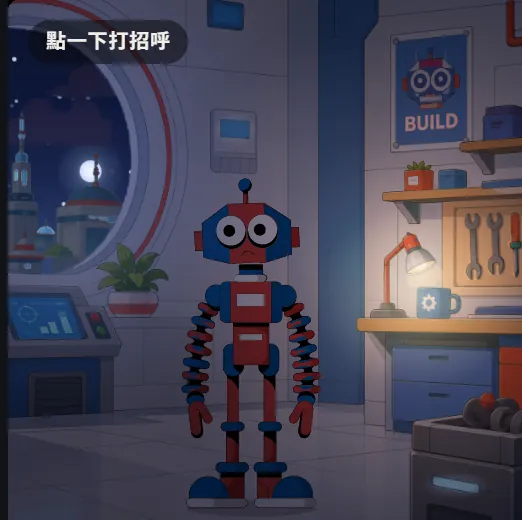
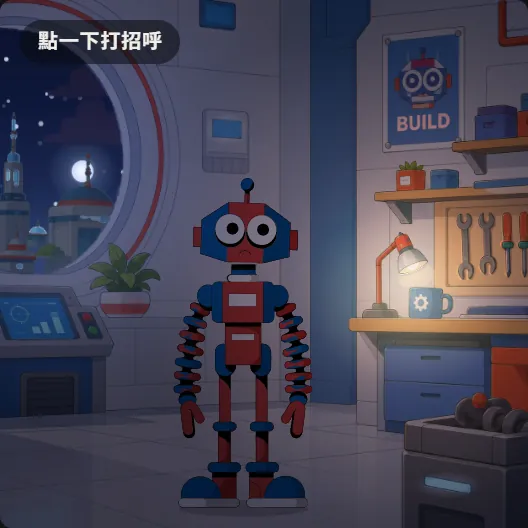
建站記錄長文修正:作者設定改對、截圖重拍、中英分開用圖
一、設定改對(最重要)

原稿寫「我不會寫程式」,但作者會寫,只是十年沒動過;也做動畫;缺的是
製作素材的能力。這篇整篇的可信度建立在「每句話都可以自己驗證」上,
開頭第一句不準,後面全部會被質疑。標題與開場全部改寫:

- 標題:「我不會寫程式」→「十年沒寫程式」
- 開場補三段:會寫但十年沒動、會做動畫看得出精不精緻、缺的是製作素材
- 補一段停手十年最直接的後果——技術架構停在十年前,而它主動給前端建議
  (有更省的做法、這結構在手機會壞、這可以用瀏覽器原生的),
  不必先補完十年技術債就能直接想畫面
- 結尾「給正在猶豫的人」跟著改:十年沒寫幾乎沒成為障礙,
  真正有用的是「知道畫面還差一點」與「講得出差在哪裡」
- 數字表:「我的程式背景:沒有」→「會寫程式但十年沒動過;會做動畫;不會製作素材」

二、截圖重拍

原本那批有黑邊(固定 NAV、瀏覽器捲軸、LINE 浮動列入鏡)、六隻怪獸被切掉
(裁切框沒含到吊在格線上方的角色)、Allen 那張左緣有一條卡片底色。

重拍:滿版圖在轉檔時裁掉上下固定元素;怪獸改用 1440x1300 的視窗,
上緣多留 140px 把吊著的角色整隻收進來;Allen 改抓完整卡片,左緣黑邊消失。

三、中英各用自己的截圖

英文文章原本掛中文介面的截圖。改成兩套:zh 拍根目錄頁面,en 拍 /en/ 與
peakqi-story-en.html,英文版全部指向 -en 檔。

build-blog.mjs 原本只讀中文版的 cover,英文頁的 og:image 與封面圖都會是
中文截圖 —— 加上分語言封面支援(英文版沒寫 cover 就沿用中文版那張,
多數文章封面是插畫不必分),文章頁與列表頁縮圖都跟著走。

四、新增手機選單彩蛋一節 + 配圖(中英各一張)

驗收:中英文章頁 × 桌機/手機 overflowX 0、H1 各 1、11 個 H2、4 個 H3、
7 張圖 3 個表格、資源 404 為 0、JS 錯誤 0;兩個列表頁正常。
assets/blog 共 592 KB(14 張 WebP)。

diff --git a/en/blog/built-a-website-with-claude-code.dc.html b/en/blog/built-a-website-with-claude-code.dc.html
@@ -9,23 +9,23 @@
 <meta property="og:type" content="article">
 <meta property="og:site_name" content="PeakQi">
 <meta property="og:locale" content="en_US">
-<meta property="og:title" content="I can&#39;t code. I built a website with Claude Code. | PeakQi">
-<meta property="og:description" content="414 commits across 16 working days, July 16 to August 8, 2026. One person, a 32-page bilingual company site, built from nothing. This is the working record — including the day I got stuck, what I threw away, and one solution I didn&#39;t see coming.">
+<meta property="og:title" content="I hadn&#39;t written code in ten years. I built a website with Claude Code. | PeakQi">
+<meta property="og:description" content="I can write code, but I hadn&#39;t in ten years. I work in animation, but I can&#39;t produce assets. 414 commits across 16 working days, one person, a 32-page bilingual company site. This is the working record — including the day I got stuck, what I threw away, and one solution I didn&#39;t see coming.">
 <meta property="og:url" content="https://www.peakqi.com/en/blog/built-a-website-with-claude-code">
 <link rel="canonical" href="https://www.peakqi.com/en/blog/built-a-website-with-claude-code">
 <link rel="alternate" hreflang="zh-Hant" href="https://www.peakqi.com/blog/built-a-website-with-claude-code">
 <link rel="alternate" hreflang="en" href="https://www.peakqi.com/en/blog/built-a-website-with-claude-code">
 <link rel="alternate" hreflang="x-default" href="https://www.peakqi.com/blog/built-a-website-with-claude-code">
-<meta property="og:image" content="https://www.peakqi.com/assets/blog/tower.webp">
+<meta property="og:image" content="https://www.peakqi.com/assets/blog/tower-en.webp">
 <meta property="og:image:width" content="1200">
 <meta property="og:image:height" content="630">
 <meta property="og:image:alt" content="PeakQi">
 <meta name="twitter:card" content="summary_large_image">
-<meta name="twitter:title" content="I can&#39;t code. I built a website with Claude Code. | PeakQi">
-<meta name="twitter:description" content="414 commits across 16 working days, July 16 to August 8, 2026. One person, a 32-page bilingual company site, built from nothing. This is the working record — including the day I got stuck, what I threw away, and one solution I didn&#39;t see coming.">
-<meta name="twitter:image" content="https://www.peakqi.com/assets/blog/tower.webp">
+<meta name="twitter:title" content="I hadn&#39;t written code in ten years. I built a website with Claude Code. | PeakQi">
+<meta name="twitter:description" content="I can write code, but I hadn&#39;t in ten years. I work in animation, but I can&#39;t produce assets. 414 commits across 16 working days, one person, a 32-page bilingual company site. This is the working record — including the day I got stuck, what I threw away, and one solution I didn&#39;t see coming.">
+<meta name="twitter:image" content="https://www.peakqi.com/assets/blog/tower-en.webp">
 <link rel="alternate" type="application/rss+xml" title="Insights" href="/en/feed.xml">
-<script type="application/ld+json">{"@context":"https://schema.org","@type":"BlogPosting","headline":"I can't code. I built a website with Claude Code.","description":"414 commits across 16 working days, July 16 to August 8, 2026. One person, a 32-page bilingual company site, built from nothing. This is the working record — including the day I got stuck, what I threw away, and one solution I didn't see coming.","inLanguage":"en","datePublished":"2026-08-08","dateModified":"2026-08-08","image":"https://www.peakqi.com/assets/blog/tower.webp","mainEntityOfPage":{"@type":"WebPage","@id":"https://www.peakqi.com/en/blog/built-a-website-with-claude-code"},"author":{"@type":"Organization","name":"PeakQi","url":"https://www.peakqi.com/en/"},"publisher":{"@type":"Organization","name":"PeakQi","logo":{"@type":"ImageObject","url":"https://www.peakqi.com/assets/logo.png"}}}</script>
+<script type="application/ld+json">{"@context":"https://schema.org","@type":"BlogPosting","headline":"I hadn't written code in ten years. I built a website with Claude Code.","description":"I can write code, but I hadn't in ten years. I work in animation, but I can't produce assets. 414 commits across 16 working days, one person, a 32-page bilingual company site. This is the working record — including the day I got stuck, what I threw away, and one solution I didn't see coming.","inLanguage":"en","datePublished":"2026-08-08","dateModified":"2026-08-08","image":"https://www.peakqi.com/assets/blog/tower-en.webp","mainEntityOfPage":{"@type":"WebPage","@id":"https://www.peakqi.com/en/blog/built-a-website-with-claude-code"},"author":{"@type":"Organization","name":"PeakQi","url":"https://www.peakqi.com/en/"},"publisher":{"@type":"Organization","name":"PeakQi","logo":{"@type":"ImageObject","url":"https://www.peakqi.com/assets/logo.png"}}}</script>
 <script>window.__dcComponentDir='/';</script>
 <script src="/support.js"></script>
 <script>try{if('scrollRestoration' in history)history.scrollRestoration='manual';}catch(e){}
@@ -35,8 +35,8 @@ window.addEventListener('load',function(){if(!location.hash)requestAnimationFram
 <body>
 <x-dc>
 <helmet>
-<title>I can&#39;t code. I built a website with Claude Code. | PeakQi</title>
-<meta name="description" content="414 commits across 16 working days, July 16 to August 8, 2026. One person, a 32-page bilingual company site, built from nothing. This is the working record — including the day I got stuck, what I threw away, and one solution I didn&#39;t see coming.">
+<title>I hadn&#39;t written code in ten years. I built a website with Claude Code. | PeakQi</title>
+<meta name="description" content="I can write code, but I hadn&#39;t in ten years. I work in animation, but I can&#39;t produce assets. 414 commits across 16 working days, one person, a 32-page bilingual company site. This is the working record — including the day I got stuck, what I threw away, and one solution I didn&#39;t see coming.">
 <meta name="viewport" content="width=device-width, initial-scale=1">
 <link rel="preconnect" href="https://fonts.googleapis.com">
 <link rel="preconnect" href="https://fonts.gstatic.com" crossorigin>
@@ -106,15 +106,20 @@ html[lang="en"] p,html[lang="en"] li{hyphens:auto;-webkit-hyphens:auto;text-wrap
 <a id="pq-skip" href="#pq-main">Skip to main content</a>
 <dc-import name="Nav" active="blog" cta-threshold="0.4" hint-size="100%,68px"></dc-import>
 
-<main id="pq-main" class="pb-wrap" data-screen-label="I can&#39;t code. I buil">
+<main id="pq-main" class="pb-wrap" data-screen-label="I hadn&#39;t written cod">
   <a class="pb-back" href="/en/blog">← Back to Insights</a>
   <span class="pb-kicker">Build notes</span>
-  <h1 class="pb-title">I can&#39;t code. I built a website with Claude Code.</h1>
-  <p class="pb-lede">414 commits across 16 working days, July 16 to August 8, 2026. One person, a 32-page bilingual company site, built from nothing. This is the working record — including the day I got stuck, what I threw away, and one solution I didn&#39;t see coming.</p>
-  <p class="pb-meta">Aug 8, 2026 · 9 min read</p>
-  <figure class="pb-cover"><img src="/assets/blog/tower.webp" alt="品牌屋 3D 塔樓——六個房間對應六門生意,隨頁面捲動一層一層走上去" width="1200" height="630" fetchpriority="high" decoding="async"></figure>
+  <h1 class="pb-title">I hadn&#39;t written code in ten years. I built a website with Claude Code.</h1>
+  <p class="pb-lede">I can write code, but I hadn&#39;t in ten years. I work in animation, but I can&#39;t produce assets. 414 commits across 16 working days, one person, a 32-page bilingual company site. This is the working record — including the day I got stuck, what I threw away, and one solution I didn&#39;t see coming.</p>
+  <p class="pb-meta">Aug 8, 2026 · 11 min read</p>
+  <figure class="pb-cover"><img src="/assets/blog/tower-en.webp" alt="The Brand House 3D tower — six rooms for six businesses, walked through floor by floor as you scroll" width="1200" height="630" fetchpriority="high" decoding="async"></figure>
   <article class="pb-body">
-<p>I&#39;m Allen, part of the team at PEAKQI Co., Ltd. in Taiwan. Before this project, I couldn&#39;t write code.</p>
+<p>I&#39;m Allen, part of the team at PEAKQI Co., Ltd. in Taiwan.</p>
+<p>Let me be precise about where I was standing, because nothing after this means much otherwise: <strong>I can write code, but I hadn&#39;t touched it in about ten years.</strong> I also work in animation — I can tell when a frame is refined and when the timing is off.</p>
+<p>What I don&#39;t have is the other half: <strong>producing assets.</strong> Turning what&#39;s in my head into usable layers, models, textures, storyboards — I can&#39;t do that. And in ten years the stack turned over several times. I knew what needed doing; I didn&#39;t know how it&#39;s done now.</p>
+<p>So the division of labour on this project was clear: use Claude Code to structure the development, sit on it while it debugged, and push the visuals round after round until they were refined enough. Judgment stayed with me. Production went to it.</p>
+<p>The most direct consequence of ten years away is that my mental model of the stack is ten years old. That&#39;s the gap it filled best — not just doing what I asked, but volunteering frontend advice: there&#39;s a cheaper way to do that effect now, this structure will break on mobile, this can be done natively in the browser instead. I never had to pay down ten years of technical debt first. I could go straight to &quot;here&#39;s the frame I want&quot; and start trying things.</p>
+<p>It delivered.</p>
 <p>Between July 16 and August 8, 2026, I built our company site <a href="https://peakqi.com" target="_blank" rel="noopener noreferrer">peakqi.com</a> from scratch using <a href="https://claude.com/claude-code" target="_blank" rel="noopener noreferrer">Claude Code</a> — 32 pages across two languages, a three.js scroll-driven sequence, a WebGL enhancement layer that can be switched off entirely, and two asset generation pipelines I wrote along the way.</p>
 <p>All of it is public on <a href="https://github.com/Peakqi-com/peakqi-website" target="_blank" rel="noopener noreferrer">GitHub</a>. The commit history has not been cleaned up.</p>
 <p>This isn&#39;t a success story. It&#39;s a working record.</p>
@@ -122,7 +127,7 @@ html[lang="en"] p,html[lang="en"] li{hyphens:auto;-webkit-hyphens:auto;text-wrap
 <h2>What the site actually is</h2>
 <p>Not a template. The specs:</p>
 <div class="pb-tablewrap"><table class="pb-table"><thead><tr><th>Item</th><th>Detail</th></tr></thead><tbody><tr><td>Architecture</td><td>Vanilla JavaScript, no frontend framework. All copy, pricing and case data live in a single <code>content.js</code></td></tr><tr><td>Homepage</td><td>three.js loads a 42-mesh camera GLB that assembles, disassembles, walks through each component, unfolds into a blueprint, reassembles and flips — six scroll-driven stages</td></tr><tr><td>Render layers</td><td><code>hero-engine.js</code> (Canvas 2D sequence), <code>gl-engine.js</code> (WebGL enhancement, fully disableable), <code>micro-engine.js</code> (micro-interactions)</td></tr><tr><td>Degradation</td><td>reduced-motion, save-data, deviceMemory &lt; 4, width &lt; 900, context lost, shader failure — any one triggers automatic fallback with the narrative fully intact</td></tr><tr><td>Asset generators</td><td><code>tools/gen-allen-art.mjs</code> (194 SVG paths sorted into nine rigid bodies) and <code>tools/gen-allen-room-assets.py</code> (40-layer decomposition with a built-in self-check)</td></tr><tr><td>Deployment</td><td>Vercel + GitHub Actions; form submissions route through a serverless function to Google Sheets / Email / Notion</td></tr><tr><td>Languages</td><td>Traditional Chinese and English, 16 pages each</td></tr></tbody></table></div>
-<figure class="pb-fig"><img src="/assets/blog/camera.webp" alt="Homepage sequence, stage 02 &quot;disassemble&quot;: the camera body and its caption card on screen together, stage index on the right" loading="lazy" decoding="async"><figcaption>Homepage sequence, stage 02 &quot;disassemble&quot;: the camera body and its caption card on screen together, stage index on the right</figcaption></figure>
+<figure class="pb-fig"><img src="/assets/blog/camera-en.webp" alt="Homepage sequence, stage 02 &quot;disassemble&quot;: the camera body and its caption card on screen together, stage index on the right" loading="lazy" decoding="async"><figcaption>Homepage sequence, stage 02 &quot;disassemble&quot;: the camera body and its caption card on screen together, stage index on the right</figcaption></figure>
 <p>If you&#39;d rather just look at the result, the <a href="/en/">homepage</a>, <a href="/en/cases">case studies</a> and <a href="/en/pricing">pricing</a> show the differences most clearly.</p>
 <hr class="pb-hr">
 <h2>The 16 days</h2>
@@ -139,7 +144,7 @@ html[lang="en"] p,html[lang="en"] li{hyphens:auto;-webkit-hyphens:auto;text-wrap
 <p>Four blue handles appeared on screen. I dragged them; it reprojected onto the 3D mesh in real time and rebuilt the clip path, while a panel in the corner displayed a coordinate array I could paste straight back into the source. I dragged, copied, pasted.</p>
 <p>The next commit reads:</p>
 <blockquote class="pb-quote">Video corners now use the exact values the user positioned with <code>__cornerTool</code> — precise fit to the screen</blockquote>
-<figure class="pb-fig"><img src="/assets/blog/blueprint.webp" alt="Homepage sequence, stage 03 &quot;glowing linework&quot;: the camera separated into components, rendered as wireframe" loading="lazy" decoding="async"><figcaption>Homepage sequence, stage 03 &quot;glowing linework&quot;: the camera separated into components, rendered as wireframe</figcaption></figure>
+<figure class="pb-fig"><img src="/assets/blog/blueprint-en.webp" alt="Homepage sequence, stage 03 &quot;glowing linework&quot;: the camera separated into components, rendered as wireframe" loading="lazy" decoding="async"><figcaption>Homepage sequence, stage 03 &quot;glowing linework&quot;: the camera separated into components, rendered as wireframe</figcaption></figure>
 <p>The thing I couldn&#39;t compute all day was solved by not computing it — by building an interface and handing the judgment back to the person who could see the screen.</p>
 <p>I had assumed the value of AI writing code was that it calculates better than I do. That day I learned otherwise. The value was that it knew when to stop calculating, hand the decision back to me, and build the handoff tool on its way out.</p>
 <hr class="pb-hr">
@@ -148,7 +153,7 @@ html[lang="en"] p,html[lang="en"] li{hyphens:auto;-webkit-hyphens:auto;text-wrap
 <p>The commit:</p>
 <blockquote class="pb-quote">Restore six capabilities section: remove failed automated editorial design experiment (583c6f7)</blockquote>
 <p>After the rollback I did it by hand instead: a Swiss editorial grid first, then six characters breaking out of it one at a time — 01 sits on a grid line and bends the hairline under its weight, 02 does pull-ups on the top rule, 03 lies flat across it, 04 swings one-handed, 05 walks a tightrope, 06 hangs upside down beneath the line. Six separate commits, one character at a time.</p>
-<figure class="pb-fig"><img src="/assets/blog/creatures.webp" alt="Six component creatures, each breaking the grid in a different posture; the 2px black line under their feet is the Swiss editorial grid" loading="lazy" decoding="async"><figcaption>Six component creatures, each breaking the grid in a different posture; the 2px black line under their feet is the Swiss editorial grid</figcaption></figure>
+<figure class="pb-fig"><img src="/assets/blog/creatures-en.webp" alt="Six component creatures, each breaking the grid in a different posture; the 2px black line under their feet is the Swiss editorial grid" loading="lazy" decoding="async"><figcaption>Six component creatures, each breaking the grid in a different posture; the 2px black line under their feet is the Swiss editorial grid</figcaption></figure>
 <p>It took longer than the automated pass. It came out far better. The division of labour I took from this: <strong>structure can be delegated. Taste cannot.</strong></p>
 <hr class="pb-hr">
 <h2>Honesty turned out to be an engineering problem</h2>
@@ -176,11 +181,13 @@ html[lang="en"] p,html[lang="en"] li{hyphens:auto;-webkit-hyphens:auto;text-wrap
 <h2>One indulgence</h2>
 <p>There&#39;s a robot on the <a href="/en/about">about page</a>, standing in his own workshop. His name is Allen.</p>
 <p>The workshop is built from 40 hand-separated layers. It shifts between day, dusk and night based on the visitor&#39;s local clock. Clouds drift past the window; at night there are stars and a moon that rises slowly. The clouds occlude the stars, a cloud glows faintly when the moon rises behind it, and moonlight falls on the buildings outside. Six things are clickable — the window, the desk lamp switch, the mug, the poster, the console, the tool rail — and he turns his head to look at whichever one you touch.</p>
-<figure class="pb-fig"><img src="/assets/blog/allen-day.webp" alt="Allen&#39;s workshop in daylight" loading="lazy" decoding="async"><figcaption>Allen&#39;s workshop in daylight</figcaption></figure>
-<figure class="pb-fig"><img src="/assets/blog/allen-night.webp" alt="The same workshop at night: stars, the moon, and moonlight spilling in through the window" loading="lazy" decoding="async"><figcaption>The same workshop at night: stars, the moon, and moonlight spilling in through the window</figcaption></figure>
+<figure class="pb-fig"><img src="/assets/blog/allen-day-en.webp" alt="Allen&#39;s workshop in daylight" loading="lazy" decoding="async"><figcaption>Allen&#39;s workshop in daylight</figcaption></figure>
+<figure class="pb-fig"><img src="/assets/blog/allen-night-en.webp" alt="The same workshop at night: stars, the moon, and moonlight spilling in through the window" loading="lazy" decoding="async"><figcaption>The same workshop at night: stars, the moon, and moonlight spilling in through the window</figcaption></figure>
 <p>Technically it&#39;s the hardest thing on the site. The time-of-day system isn&#39;t three prepared background images; it&#39;s two grading layers — multiply for darkening, screen for lifting — derived analytically in sRGB space (measured average deviation: 0.3 levels).</p>
 <p>The asset generator validates itself by recomposing base plate plus components and comparing against the original, pixel by pixel. One detail is worth stating precisely: <strong>the gate is not RMSE.</strong> Rasterising at a larger size and scaling back shifts every outline by about a pixel — a difference RMSE sees and the eye does not. What actually needs catching is &quot;a whole block went missing&quot;, so the gate is: zero connected regions where the difference exceeds 60. Current RMSE is 3.74, with zero failing regions.</p>
 <p>There was no business reason to build any of it. I just wanted to put a version of myself inside the site I&#39;d built.</p>
+<p>The same instinct produced a smaller one: open the menu on a phone and one of the six component creatures is in there, hanging off the language toggle or dropping between the links. It&#39;s a different creature and a different bit each time — fifteen of them, drawn one at a time. Nobody needs this. It&#39;s the part of the site I&#39;d miss most if it were gone.</p>
+<figure class="pb-fig"><img src="/assets/blog/menu-en.webp" alt="The mobile menu: one of the six creatures hanging off the language toggle, another dropping in between the links" loading="lazy" decoding="async"><figcaption>The mobile menu: one of the six creatures hanging off the language toggle, another dropping in between the links</figcaption></figure>
 <hr class="pb-hr">
 <h2>August 6: the entire English site in one day</h2>
 <p>45 commits, 16 English pages shipped.</p>
@@ -188,11 +195,12 @@ html[lang="en"] p,html[lang="en"] li{hyphens:auto;-webkit-hyphens:auto;text-wrap
 <p>That&#39;s the day of this project I still find hardest to believe.</p>
 <hr class="pb-hr">
 <h2>Numbers</h2>
-<div class="pb-tablewrap"><table class="pb-table"><thead><tr><th>Item</th><th>Value</th></tr></thead><tbody><tr><td>Total commits</td><td>414 (as of 2026-08-08)</td></tr><tr><td>Working days</td><td>16, spanning 24 calendar days</td></tr><tr><td>Developers</td><td>1 (company team of 3)</td></tr><tr><td>Most days</td><td>3–4 hours</td></tr><tr><td>Pages</td><td>16 per language, 32 total</td></tr><tr><td>Tooling</td><td>Claude Code on a Claude Max subscription</td></tr><tr><td>Other AI tools used</td><td>None, at any stage</td></tr><tr><td>My programming background</td><td>None</td></tr></tbody></table></div>
+<div class="pb-tablewrap"><table class="pb-table"><thead><tr><th>Item</th><th>Value</th></tr></thead><tbody><tr><td>Total commits</td><td>414 (as of 2026-08-08)</td></tr><tr><td>Working days</td><td>16, spanning 24 calendar days</td></tr><tr><td>Developers</td><td>1 (company team of 3)</td></tr><tr><td>Most days</td><td>3–4 hours</td></tr><tr><td>Pages</td><td>16 per language, 32 total</td></tr><tr><td>Tooling</td><td>Claude Code on a Claude Max subscription</td></tr><tr><td>Other AI tools used</td><td>None, at any stage</td></tr><tr><td>My background</td><td>Can write code, ten years out of practice; work in animation; can&#39;t produce assets</td></tr></tbody></table></div>
 <hr class="pb-hr">
 <h2>If you&#39;re on the fence</h2>
-<p>If you&#39;re where I was a year ago — able to judge whether something is good, unable to build it — my experience is that the &quot;unable to build it&quot; half is now something you can delegate.</p>
-<p>Don&#39;t delegate the judgment. The automated redesign on July 22 failed precisely because I handed over taste along with structure. Everything in this project that came out well came from knowing what I wanted and spending the time to say it clearly.</p>
+<p>If you&#39;re where I was — able to judge whether something is good, unable to make it with your own hands — my experience is that the &quot;unable to make it&quot; half is now something you can delegate.</p>
+<p>Ten years away from code turned out to be almost irrelevant here. What mattered were two other things: knowing when a frame is still slightly off, and being able to say exactly how. Nobody could do those for me.</p>
+<p>So don&#39;t delegate the judgment. The automated redesign on July 22 failed precisely because I handed over taste along with structure. Everything in this project that came out well came from knowing what I wanted and spending the time to say it clearly.</p>
 <p>All source is public at <a href="https://github.com/Peakqi-com/peakqi-website" target="_blank" rel="noopener noreferrer">github.com/Peakqi-com/peakqi-website</a>. The commit history is unedited. Every claim above can be checked against it.</p>
 <p>If you want to talk about wiring AI into your own workflow, <a href="/en/demo">book a 15-minute assessment</a>.</p>
   </article>

diff --git a/blog/built-a-website-with-claude-code.dc.html b/blog/built-a-website-with-claude-code.dc.html
@@ -9,8 +9,8 @@
 <meta property="og:type" content="article">
 <meta property="og:site_name" content="奇鋒國際 PeakQi">
 <meta property="og:locale" content="zh_TW">
-<meta property="og:title" content="我不會寫程式,我用 Claude Code 蓋了一個網站｜奇鋒國際 PeakQi">
-<meta property="og:description" content="2026 年 7 月 16 日到 8 月 8 日,16 個工作天、414 個提交,一個人從零做出中英雙語 32 頁的公司官網。這是完整的工作記錄——包含卡住的那一天、丟掉的東西,以及一個我沒想到的解法。">
+<meta property="og:title" content="十年沒寫程式,我用 Claude Code 蓋了一個網站｜奇鋒國際 PeakQi">
+<meta property="og:description" content="我會寫程式,但十年沒動過;我做動畫,但不會製作素材。16 個工作天、414 個提交,一個人從零做出中英雙語 32 頁的公司官網。這是完整的工作記錄——包含卡住的那一天、丟掉的東西,以及一個我沒想到的解法。">
 <meta property="og:url" content="https://www.peakqi.com/blog/built-a-website-with-claude-code">
 <link rel="canonical" href="https://www.peakqi.com/blog/built-a-website-with-claude-code">
 <link rel="alternate" hreflang="zh-Hant" href="https://www.peakqi.com/blog/built-a-website-with-claude-code">
@@ -21,11 +21,11 @@
 <meta property="og:image:height" content="630">
 <meta property="og:image:alt" content="奇鋒國際 PeakQi">
 <meta name="twitter:card" content="summary_large_image">
-<meta name="twitter:title" content="我不會寫程式,我用 Claude Code 蓋了一個網站｜奇鋒國際 PeakQi">
-<meta name="twitter:description" content="2026 年 7 月 16 日到 8 月 8 日,16 個工作天、414 個提交,一個人從零做出中英雙語 32 頁的公司官網。這是完整的工作記錄——包含卡住的那一天、丟掉的東西,以及一個我沒想到的解法。">
+<meta name="twitter:title" content="十年沒寫程式,我用 Claude Code 蓋了一個網站｜奇鋒國際 PeakQi">
+<meta name="twitter:description" content="我會寫程式,但十年沒動過;我做動畫,但不會製作素材。16 個工作天、414 個提交,一個人從零做出中英雙語 32 頁的公司官網。這是完整的工作記錄——包含卡住的那一天、丟掉的東西,以及一個我沒想到的解法。">
 <meta name="twitter:image" content="https://www.peakqi.com/assets/blog/tower.webp">
 <link rel="alternate" type="application/rss+xml" title="觀點" href="/feed.xml">
-<script type="application/ld+json">{"@context":"https://schema.org","@type":"BlogPosting","headline":"我不會寫程式,我用 Claude Code 蓋了一個網站","description":"2026 年 7 月 16 日到 8 月 8 日,16 個工作天、414 個提交,一個人從零做出中英雙語 32 頁的公司官網。這是完整的工作記錄——包含卡住的那一天、丟掉的東西,以及一個我沒想到的解法。","inLanguage":"zh-Hant-TW","datePublished":"2026-08-08","dateModified":"2026-08-08","image":"https://www.peakqi.com/assets/blog/tower.webp","mainEntityOfPage":{"@type":"WebPage","@id":"https://www.peakqi.com/blog/built-a-website-with-claude-code"},"author":{"@type":"Organization","name":"奇鋒國際 PeakQi","url":"https://www.peakqi.com/"},"publisher":{"@type":"Organization","name":"奇鋒國際 PeakQi","logo":{"@type":"ImageObject","url":"https://www.peakqi.com/assets/logo.png"}}}</script>
+<script type="application/ld+json">{"@context":"https://schema.org","@type":"BlogPosting","headline":"十年沒寫程式,我用 Claude Code 蓋了一個網站","description":"我會寫程式,但十年沒動過;我做動畫,但不會製作素材。16 個工作天、414 個提交,一個人從零做出中英雙語 32 頁的公司官網。這是完整的工作記錄——包含卡住的那一天、丟掉的東西,以及一個我沒想到的解法。","inLanguage":"zh-Hant-TW","datePublished":"2026-08-08","dateModified":"2026-08-08","image":"https://www.peakqi.com/assets/blog/tower.webp","mainEntityOfPage":{"@type":"WebPage","@id":"https://www.peakqi.com/blog/built-a-website-with-claude-code"},"author":{"@type":"Organization","name":"奇鋒國際 PeakQi","url":"https://www.peakqi.com/"},"publisher":{"@type":"Organization","name":"奇鋒國際 PeakQi","logo":{"@type":"ImageObject","url":"https://www.peakqi.com/assets/logo.png"}}}</script>
 <script>window.__dcComponentDir='/';</script>
 <script src="/support.js"></script>
 <script>try{if('scrollRestoration' in history)history.scrollRestoration='manual';}catch(e){}
@@ -35,8 +35,8 @@ window.addEventListener('load',function(){if(!location.hash)requestAnimationFram
 <body>
 <x-dc>
 <helmet>
-<title>我不會寫程式,我用 Claude Code 蓋了一個網站｜奇鋒國際 PeakQi</title>
-<meta name="description" content="2026 年 7 月 16 日到 8 月 8 日,16 個工作天、414 個提交,一個人從零做出中英雙語 32 頁的公司官網。這是完整的工作記錄——包含卡住的那一天、丟掉的東西,以及一個我沒想到的解法。">
+<title>十年沒寫程式,我用 Claude Code 蓋了一個網站｜奇鋒國際 PeakQi</title>
+<meta name="description" content="我會寫程式,但十年沒動過;我做動畫,但不會製作素材。16 個工作天、414 個提交,一個人從零做出中英雙語 32 頁的公司官網。這是完整的工作記錄——包含卡住的那一天、丟掉的東西,以及一個我沒想到的解法。">
 <meta name="viewport" content="width=device-width, initial-scale=1">
 <link rel="preconnect" href="https://fonts.googleapis.com">
 <link rel="preconnect" href="https://fonts.gstatic.com" crossorigin>
@@ -104,15 +104,20 @@ body{animation:pqPageIn 260ms cubic-bezier(0.16,1,0.3,1)}
 <a id="pq-skip" href="#pq-main">跳到主要內容</a>
 <dc-import name="Nav" active="blog" cta-threshold="0.4" hint-size="100%,68px"></dc-import>
 
-<main id="pq-main" class="pb-wrap" data-screen-label="我不會寫程式,我用 Claude Code 蓋了">
+<main id="pq-main" class="pb-wrap" data-screen-label="十年沒寫程式,我用 Claude Code 蓋了">
   <a class="pb-back" href="/blog">← 回到觀點</a>
   <span class="pb-kicker">製作筆記</span>
-  <h1 class="pb-title">我不會寫程式,我用 Claude Code 蓋了一個網站</h1>
-  <p class="pb-lede">2026 年 7 月 16 日到 8 月 8 日,16 個工作天、414 個提交,一個人從零做出中英雙語 32 頁的公司官網。這是完整的工作記錄——包含卡住的那一天、丟掉的東西,以及一個我沒想到的解法。</p>
-  <p class="pb-meta">2026 年 8 月 8 日 · 9 分鐘閱讀</p>
+  <h1 class="pb-title">十年沒寫程式,我用 Claude Code 蓋了一個網站</h1>
+  <p class="pb-lede">我會寫程式,但十年沒動過;我做動畫,但不會製作素材。16 個工作天、414 個提交,一個人從零做出中英雙語 32 頁的公司官網。這是完整的工作記錄——包含卡住的那一天、丟掉的東西,以及一個我沒想到的解法。</p>
+  <p class="pb-meta">2026 年 8 月 8 日 · 11 分鐘閱讀</p>
   <figure class="pb-cover"><img src="/assets/blog/tower.webp" alt="品牌屋 3D 塔樓——六個房間對應六門生意,隨頁面捲動一層一層走上去" width="1200" height="630" fetchpriority="high" decoding="async"></figure>
   <article class="pb-body">
-<p>我是 Allen,奇鋒國際的成員。在開始這個專案之前,我不會寫程式。</p>
+<p>我是 Allen,奇鋒國際的成員。</p>
+<p>先把位置站清楚,不然後面講什麼都是虛的:<strong>我會寫程式,但大概十年沒動過了。</strong>我也做動畫,一個畫面精不精緻、節奏對不對,我看得出來。</p>
+<p>我沒有的是另一半能力——<strong>製作素材</strong>。把腦袋裡的東西變成可以用的圖層、模型、貼圖、分鏡,我做不到。過去十年技術棧也換了好幾輪,我知道該做什麼,但不知道現在該怎麼做。</p>
+<p>所以這個專案我的分工很明確:用 Claude Code 安排開發流程、盯著它除錯、一輪一輪把視覺推到夠精緻為止。判斷留在我這邊,產出交給它。</p>
+<p>停手十年最直接的後果是,我腦袋裡的技術架構停在十年前。這一塊它補得最好——不只是照著我說的做,而是主動給前端上的建議:這個效果現在有更省的做法、這個結構在手機上會出問題、這裡可以改成瀏覽器原生支援的方式。我不必先去補完十年的技術債,就可以直接想「我要什麼畫面」,然後放手去試。</p>
+<p>結果它做到了。</p>
 <p>2026 年 7 月 16 日到 8 月 8 日之間,我用 <a href="https://claude.com/claude-code" target="_blank" rel="noopener noreferrer">Claude Code</a> 從零蓋出公司官網 <a href="https://peakqi.com" target="_blank" rel="noopener noreferrer">peakqi.com</a>——中英雙語共 32 個頁面、一段 three.js 的捲動分鏡、一層可以整個關掉的 WebGL 增強層,還有兩支自己寫的素材產生管線。</p>
 <p>全部的程式碼都公開在 <a href="https://github.com/Peakqi-com/peakqi-website" target="_blank" rel="noopener noreferrer">GitHub</a>,提交歷史沒有整理過。</p>
 <p>這篇不是成功心得,是工作記錄。</p>
@@ -179,6 +184,8 @@ body{animation:pqPageIn 260ms cubic-bezier(0.16,1,0.3,1)}
 <p>技術上這是全站最麻煩的一塊。整套天色不是準備三張圖片,而是用 multiply 壓暗加 screen 提亮兩層分級圖,在 sRGB 空間精確推導出來(實測平均差 0.3 階)。</p>
 <p>素材產生器會自我驗算:把底板加元件貼回去,和原稿逐像素比對。這裡有一個細節值得說——<strong>關卡看的不是 RMSE</strong>。轉檔把整張放大再換算回來,每一條描邊都會差個 1px,那種差異 RMSE 看得到、眼睛看不到。真正要擋的是「一整塊東西不見了」,所以關卡是「差異超過 60 的連通區域必須是 0 塊」。目前 RMSE 是 3.74,不合格區域 0 塊。</p>
 <p>這一段沒有任何商業理由。我只是想在自己蓋的網站裡放一個自己。</p>
+<p>同一個念頭還生出一個更小的:用手機打開選單,六隻零件怪獸裡會有一隻在裡面——吊在語言切換鈕上,或是從選單項目之間垂下來。每次出現的角色和戲碼都不一樣,一共十五齣,一齣一齣畫的。沒有人需要這個。但如果把它拿掉,我會是全站最捨不得的那一塊。</p>
+<figure class="pb-fig"><img src="/assets/blog/menu.webp" alt="手機選單:一隻怪獸吊在語言切換鈕上,另一隻從選單項目之間垂下來" loading="lazy" decoding="async"><figcaption>手機選單:一隻怪獸吊在語言切換鈕上,另一隻從選單項目之間垂下來</figcaption></figure>
 <hr class="pb-hr">
 <h2>8 月 6 日:一天做完整個英文站</h2>
 <p>45 個提交,16 個英文頁面上線。</p>
@@ -186,11 +193,12 @@ body{animation:pqPageIn 260ms cubic-bezier(0.16,1,0.3,1)}
 <p>這是整個專案裡我到現在還覺得最不真實的一天。</p>
 <hr class="pb-hr">
 <h2>數字</h2>
-<div class="pb-tablewrap"><table class="pb-table"><thead><tr><th>項目</th><th>數值</th></tr></thead><tbody><tr><td>提交總數</td><td>414(截至 2026-08-08)</td></tr><tr><td>工作天</td><td>16 天,橫跨 24 個日曆天</td></tr><tr><td>開發人數</td><td>1 人(公司團隊 3 人)</td></tr><tr><td>多數日子投入</td><td>3–4 小時</td></tr><tr><td>頁面數</td><td>中英雙語各 16 頁,共 32 頁</td></tr><tr><td>工具</td><td>Claude Code(Claude Max 訂閱方案)</td></tr><tr><td>全程使用其他 AI 工具</td><td>沒有</td></tr><tr><td>我的程式背景</td><td>沒有</td></tr></tbody></table></div>
+<div class="pb-tablewrap"><table class="pb-table"><thead><tr><th>項目</th><th>數值</th></tr></thead><tbody><tr><td>提交總數</td><td>414(截至 2026-08-08)</td></tr><tr><td>工作天</td><td>16 天,橫跨 24 個日曆天</td></tr><tr><td>開發人數</td><td>1 人(公司團隊 3 人)</td></tr><tr><td>多數日子投入</td><td>3–4 小時</td></tr><tr><td>頁面數</td><td>中英雙語各 16 頁,共 32 頁</td></tr><tr><td>工具</td><td>Claude Code(Claude Max 訂閱方案)</td></tr><tr><td>全程使用其他 AI 工具</td><td>沒有</td></tr><tr><td>我的背景</td><td>會寫程式,但十年沒動過;會做動畫;不會製作素材</td></tr></tbody></table></div>
 <hr class="pb-hr">
 <h2>給正在猶豫的人</h2>
-<p>如果你和一年前的我一樣——判斷得出什麼東西好,但寫不出來——我的經驗是:「寫不出來」那半邊,現在可以外包了。</p>
-<p>但不要外包判斷。7 月 22 日那次自動重設計失敗,就是因為我把品味也一起交出去了。整個專案裡所有好的部分,都是我知道自己要什麼、然後花時間把它講清楚的那些。</p>
+<p>如果你和我一樣——判斷得出什麼東西好,但手上做不出來——我的經驗是:「做不出來」那半邊,現在可以外包了。</p>
+<p>十年沒寫程式這件事,在這個專案裡幾乎沒有變成障礙。真正有用的是另外兩件事:我知道一個畫面什麼時候「還差一點」,以及我講得出差在哪裡。這兩件事沒有人能代替我做。</p>
+<p>所以不要外包判斷。7 月 22 日那次自動重設計失敗,就是因為我把品味也一起交出去了。整個專案裡所有好的部分,都是我知道自己要什麼、然後花時間把它講清楚的那些。</p>
 <p>程式碼全部公開在 <a href="https://github.com/Peakqi-com/peakqi-website" target="_blank" rel="noopener noreferrer">github.com/Peakqi-com/peakqi-website</a>,提交歷史沒有整理。上面每一句話都可以自己去驗證。</p>
 <p>如果你想聊聊怎麼把 AI 接進自己的流程,<a href="/demo">預約 15 分鐘的導入評估</a> 就可以。</p>
   </article>

diff --git a/posts.js b/posts.js
@@ -9,7 +9,7 @@ export const TAGS = {
 };
 
 export const POSTS = [
-  {"slug":"built-a-website-with-claude-code","date":"2026-08-08","tags":["build-notes","ai-adoption"],"cover":"/assets/blog/tower.webp","hasEn":true,"zh":{"title":"我不會寫程式,我用 Claude Code 蓋了一個網站","summary":"2026 年 7 月 16 日到 8 月 8 日,16 個工作天、414 個提交,一個人從零做出中英雙語 32 頁的公司官網。這是完整的工作記錄——包含卡住的那一天、丟掉的東西,以及一個我沒想到的解法。","mins":9},"en":{"title":"I can't code. I built a website with Claude Code.","summary":"414 commits across 16 working days, July 16 to August 8, 2026. One person, a 32-page bilingual company site, built from nothing. This is the working record — including the day I got stuck, what I threw away, and one solution I didn't see coming.","mins":9}}
+  {"slug":"built-a-website-with-claude-code","date":"2026-08-08","tags":["build-notes","ai-adoption"],"cover":"/assets/blog/tower.webp","hasEn":true,"zh":{"title":"十年沒寫程式,我用 Claude Code 蓋了一個網站","summary":"我會寫程式,但十年沒動過;我做動畫,但不會製作素材。16 個工作天、414 個提交,一個人從零做出中英雙語 32 頁的公司官網。這是完整的工作記錄——包含卡住的那一天、丟掉的東西,以及一個我沒想到的解法。","mins":11},"en":{"title":"I hadn't written code in ten years. I built a website with Claude Code.","summary":"I can write code, but I hadn't in ten years. I work in animation, but I can't produce assets. 414 commits across 16 working days, one person, a 32-page bilingual company site. This is the working record — including the day I got stuck, what I threw away, and one solution I didn't see coming.","mins":11}}
 ];
 
 // 給頁面用的小工具:取最新 n 篇(英文站自動只取有英文版的)

diff --git a/en/Blog.dc.html b/en/Blog.dc.html
@@ -150,12 +150,12 @@ html[lang="en"] p,html[lang="en"] li{hyphens:auto;-webkit-hyphens:auto;text-wrap
 </div>
   <div class="bl-grid" id="bl-grid">
     <a class="bl-card" href="/en/blog/built-a-website-with-claude-code" data-tags="build-notes ai-adoption">
-      <span class="bl-thumb"><img src="/assets/blog/tower.webp" alt="品牌屋 3D 塔樓——六個房間對應六門生意,隨頁面捲動一層一層走上去" loading="lazy" decoding="async"></span>
+      <span class="bl-thumb"><img src="/assets/blog/tower-en.webp" alt="The Brand House 3D tower — six rooms for six businesses, walked through floor by floor as you scroll" loading="lazy" decoding="async"></span>
       <span class="bl-cb">
         <span class="bl-tag">Build notes</span>
-        <span class="bl-ct">I can&#39;t code. I built a website with Claude Code.</span>
-        <span class="bl-cs">414 commits across 16 working days, July 16 to August 8, 2026. One person, a 32-page bilingual company site, built from nothing. This is the working record — including the day I got stuck, what I threw away, and one solution I didn&#39;t see coming.</span>
-        <span class="bl-cm">Aug 8, 2026 · 9 min read</span>
+        <span class="bl-ct">I hadn&#39;t written code in ten years. I built a website with Claude Code.</span>
+        <span class="bl-cs">I can write code, but I hadn&#39;t in ten years. I work in animation, but I can&#39;t produce assets. 414 commits across 16 working days, one person, a 32-page bilingual company site. This is the working record — including the day I got stuck, what I threw away, and one solution I didn&#39;t see coming.</span>
+        <span class="bl-cm">Aug 8, 2026 · 11 min read</span>
       </span>
     </a>
   </div>

diff --git a/Blog.dc.html b/Blog.dc.html
@@ -151,9 +151,9 @@ body{animation:pqPageIn 260ms cubic-bezier(0.16,1,0.3,1)}
       <span class="bl-thumb"><img src="/assets/blog/tower.webp" alt="品牌屋 3D 塔樓——六個房間對應六門生意,隨頁面捲動一層一層走上去" loading="lazy" decoding="async"></span>
       <span class="bl-cb">
         <span class="bl-tag">製作筆記</span>
-        <span class="bl-ct">我不會寫程式,我用 Claude Code 蓋了一個網站</span>
-        <span class="bl-cs">2026 年 7 月 16 日到 8 月 8 日,16 個工作天、414 個提交,一個人從零做出中英雙語 32 頁的公司官網。這是完整的工作記錄——包含卡住的那一天、丟掉的東西,以及一個我沒想到的解法。</span>
-        <span class="bl-cm">2026 年 8 月 8 日 · 9 分鐘閱讀</span>
+        <span class="bl-ct">十年沒寫程式,我用 Claude Code 蓋了一個網站</span>
+        <span class="bl-cs">我會寫程式,但十年沒動過;我做動畫,但不會製作素材。16 個工作天、414 個提交,一個人從零做出中英雙語 32 頁的公司官網。這是完整的工作記錄——包含卡住的那一天、丟掉的東西,以及一個我沒想到的解法。</span>
+        <span class="bl-cm">2026 年 8 月 8 日 · 11 分鐘閱讀</span>
       </span>
     </a>
   </div>

diff --git a/content/blog/built-a-website-with-claude-code.en.md b/content/blog/built-a-website-with-claude-code.en.md
@@ -1,14 +1,24 @@
 ---
-title: I can't code. I built a website with Claude Code.
-summary: 414 commits across 16 working days, July 16 to August 8, 2026. One person, a 32-page bilingual company site, built from nothing. This is the working record — including the day I got stuck, what I threw away, and one solution I didn't see coming.
+title: I hadn't written code in ten years. I built a website with Claude Code.
+summary: I can write code, but I hadn't in ten years. I work in animation, but I can't produce assets. 414 commits across 16 working days, one person, a 32-page bilingual company site. This is the working record — including the day I got stuck, what I threw away, and one solution I didn't see coming.
 date: 2026-08-08
 tags: build-notes, ai-adoption
-cover: /assets/blog/tower.webp
+cover: /assets/blog/tower-en.webp
 coverAlt: The Brand House 3D tower — six rooms for six businesses, walked through floor by floor as you scroll
 updated:
 ---
 
-I'm Allen, part of the team at PEAKQI Co., Ltd. in Taiwan. Before this project, I couldn't write code.
+I'm Allen, part of the team at PEAKQI Co., Ltd. in Taiwan.
+
+Let me be precise about where I was standing, because nothing after this means much otherwise: **I can write code, but I hadn't touched it in about ten years.** I also work in animation — I can tell when a frame is refined and when the timing is off.
+
+What I don't have is the other half: **producing assets.** Turning what's in my head into usable layers, models, textures, storyboards — I can't do that. And in ten years the stack turned over several times. I knew what needed doing; I didn't know how it's done now.
+
+So the division of labour on this project was clear: use Claude Code to structure the development, sit on it while it debugged, and push the visuals round after round until they were refined enough. Judgment stayed with me. Production went to it.
+
+The most direct consequence of ten years away is that my mental model of the stack is ten years old. That's the gap it filled best — not just doing what I asked, but volunteering frontend advice: there's a cheaper way to do that effect now, this structure will break on mobile, this can be done natively in the browser instead. I never had to pay down ten years of technical debt first. I could go straight to "here's the frame I want" and start trying things.
+
+It delivered.
 
 Between July 16 and August 8, 2026, I built our company site [peakqi.com](https://peakqi.com) from scratch using [Claude Code](https://claude.com/claude-code) — 32 pages across two languages, a three.js scroll-driven sequence, a WebGL enhancement layer that can be switched off entirely, and two asset generation pipelines I wrote along the way.
 
@@ -32,7 +42,7 @@ Not a template. The specs:
 | Deployment | Vercel + GitHub Actions; form submissions route through a serverless function to Google Sheets / Email / Notion |
 | Languages | Traditional Chinese and English, 16 pages each |
 
-![Homepage sequence, stage 02 "disassemble": the camera body and its caption card on screen together, stage index on the right](/assets/blog/camera.webp)
+![Homepage sequence, stage 02 "disassemble": the camera body and its caption card on screen together, stage index on the right](/assets/blog/camera-en.webp)
 
 If you'd rather just look at the result, the [homepage](/en/), [case studies](/en/cases) and [pricing](/en/pricing) show the differences most clearly.
 
@@ -88,7 +98,7 @@ The next commit reads:
 
 > Video corners now use the exact values the user positioned with `__cornerTool` — precise fit to the screen
 
-![Homepage sequence, stage 03 "glowing linework": the camera separated into components, rendered as wireframe](/assets/blog/blueprint.webp)
+![Homepage sequence, stage 03 "glowing linework": the camera separated into components, rendered as wireframe](/assets/blog/blueprint-en.webp)
 
 The thing I couldn't compute all day was solved by not computing it — by building an interface and handing the judgment back to the person who could see the screen.
 
@@ -106,7 +116,7 @@ The commit:
 
 After the rollback I did it by hand instead: a Swiss editorial grid first, then six characters breaking out of it one at a time — 01 sits on a grid line and bends the hairline under its weight, 02 does pull-ups on the top rule, 03 lies flat across it, 04 swings one-handed, 05 walks a tightrope, 06 hangs upside down beneath the line. Six separate commits, one character at a time.
 
-![Six component creatures, each breaking the grid in a different posture; the 2px black line under their feet is the Swiss editorial grid](/assets/blog/creatures.webp)
+![Six component creatures, each breaking the grid in a different posture; the 2px black line under their feet is the Swiss editorial grid](/assets/blog/creatures-en.webp)
 
 It took longer than the automated pass. It came out far better. The division of labour I took from this: **structure can be delegated. Taste cannot.**
 
@@ -166,15 +176,19 @@ There's a robot on the [about page](/en/about), standing in his own workshop. Hi
 
 The workshop is built from 40 hand-separated layers. It shifts between day, dusk and night based on the visitor's local clock. Clouds drift past the window; at night there are stars and a moon that rises slowly. The clouds occlude the stars, a cloud glows faintly when the moon rises behind it, and moonlight falls on the buildings outside. Six things are clickable — the window, the desk lamp switch, the mug, the poster, the console, the tool rail — and he turns his head to look at whichever one you touch.
 
-![Allen's workshop in daylight](/assets/blog/allen-day.webp)
+![Allen's workshop in daylight](/assets/blog/allen-day-en.webp)
 
-![The same workshop at night: stars, the moon, and moonlight spilling in through the window](/assets/blog/allen-night.webp)
+![The same workshop at night: stars, the moon, and moonlight spilling in through the window](/assets/blog/allen-night-en.webp)
 
 Technically it's the hardest thing on the site. The time-of-day system isn't three prepared background images; it's two grading layers — multiply for darkening, screen for lifting — derived analytically in sRGB space (measured average deviation: 0.3 levels).
 
 The asset generator validates itself by recomposing base plate plus components and comparing against the original, pixel by pixel. One detail is worth stating precisely: **the gate is not RMSE.** Rasterising at a larger size and scaling back shifts every outline by about a pixel — a difference RMSE sees and the eye does not. What actually needs catching is "a whole block went missing", so the gate is: zero connected regions where the difference exceeds 60. Current RMSE is 3.74, with zero failing regions.
 
 There was no business reason to build any of it. I just wanted to put a version of myself inside the site I'd built.
+
+The same instinct produced a smaller one: open the menu on a phone and one of the six component creatures is in there, hanging off the language toggle or dropping between the links. It's a different creature and a different bit each time — fifteen of them, drawn one at a time. Nobody needs this. It's the part of the site I'd miss most if it were gone.
+
+![The mobile menu: one of the six creatures hanging off the language toggle, another dropping in between the links](/assets/blog/menu-en.webp)
 
 ---
 
@@ -199,15 +213,17 @@ That's the day of this project I still find hardest to believe.
 | Pages | 16 per language, 32 total |
 | Tooling | Claude Code on a Claude Max subscription |
 | Other AI tools used | None, at any stage |
-| My programming background | None |
+| My background | Can write code, ten years out of practice; work in animation; can't produce assets |
 
 ---
 
 ## If you're on the fence
 
-If you're where I was a year ago — able to judge whether something is good, unable to build it — my experience is that the "unable to build it" half is now something you can delegate.
+If you're where I was — able to judge whether something is good, unable to make it with your own hands — my experience is that the "unable to make it" half is now something you can delegate.
 
-Don't delegate the judgment. The automated redesign on July 22 failed precisely because I handed over taste along with structure. Everything in this project that came out well came from knowing what I wanted and spending the time to say it clearly.
+Ten years away from code turned out to be almost irrelevant here. What mattered were two other things: knowing when a frame is still slightly off, and being able to say exactly how. Nobody could do those for me.
+
+So don't delegate the judgment. The automated redesign on July 22 failed precisely because I handed over taste along with structure. Everything in this project that came out well came from knowing what I wanted and spending the time to say it clearly.
 
 All source is public at [github.com/Peakqi-com/peakqi-website](https://github.com/Peakqi-com/peakqi-website). The commit history is unedited. Every claim above can be checked against it.
 
